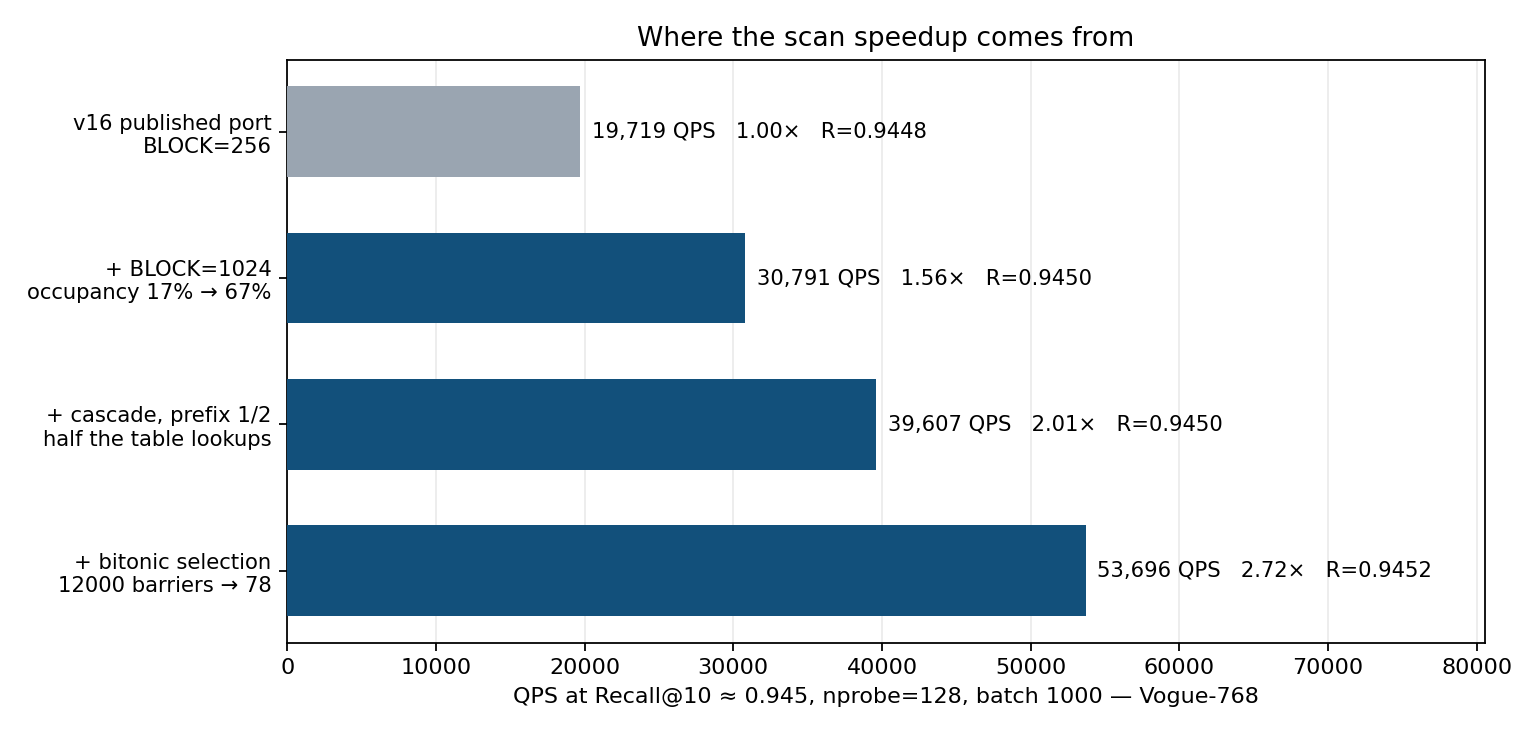
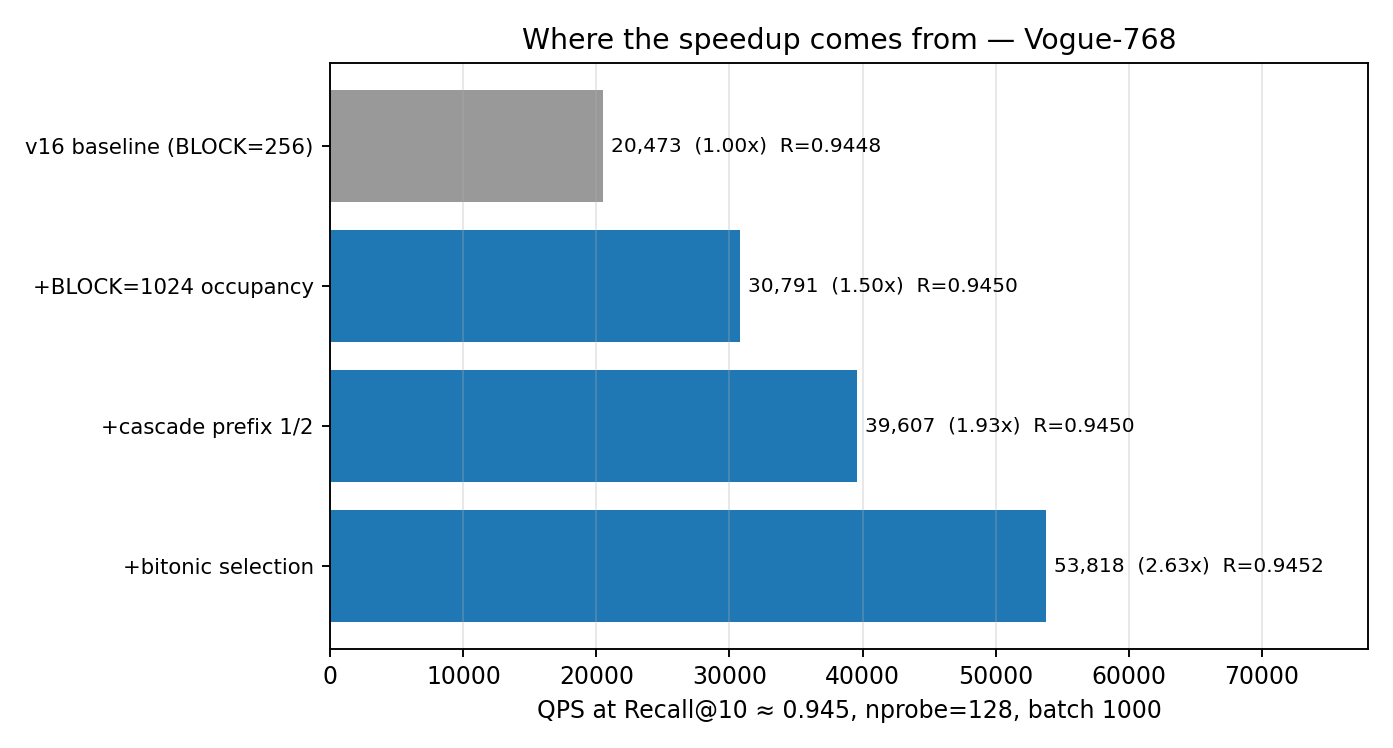
Redraw against the re-measured reference, and say what the ratio is made of
The build figure moves from 61-137x to 130-219x, not because anything got
faster but because the CPU column it is divided by is now a measurement that
reproduces. A bare ratio invites the obvious objection, so the title carries
the part of it that belongs to the machine rather than to the code: at 17.8M
vectors the two implementations reach 50% and 2.8% of their own arithmetic
bounds, and the GPU is doing 13.6x the arithmetic while it does it, at nlist
16384 against 256.

The legend no longer calls the host 208-core. It has 208 threads and reaches
2.41 TFLOP/s at 32 of them, falling to 1.27 at all of them, so the core count
describes the invoice rather than the machine.

The alpha caption said the published setting of 100 was past the knee. The
paper's setting is 4, swept over {2, 4, 8}; 100 was ours, and it was indeed
past the knee -- by enough to give away 13% of Vogue's throughput for nothing.
The caption now says what the knee is: recall saturates in the same place at
every block width and batch size measured, while the price of reaching it
ranges from 2.4% to 29.8% of throughput on this one card, so the CPU's 4 and
this port's 16-32 are the same quantity read off different machines.

The core figures pick up jhq-gpu-54's re-measured fairness rows; the one row
that still fails its spread bar keeps its CONTAMINATED mark and the loader
already drops it.

Changed region(s): [[0.0, 0.0312, 0.9878, 0.9688]]

diff --git a/scripts/plot_core3.py b/scripts/plot_core3.py
@@ -20,10 +20,14 @@ JHQ, CAG, INT8, IVF, JQ = "#12507B", "#2E8B57", "#8A9A2B", "#E07B39", "#9B7FC7"
 CARD_GIB = 31.36
 
 
+# the fairness re-runs name the sets by their short names
+SHORT = {"stella-trec24": "stella", "bge-m3": "bge"}
+
+
 def load(pats, ds):
     out = []
     for pat in pats:
-        for f in sorted(glob.glob(os.path.join(D, pat.format(d=ds)))):
+        for f in sorted(glob.glob(os.path.join(D, pat.format(d=ds, s=SHORT.get(ds, ds))))):
             with open(f) as fh:
                 body = [l for l in fh if not l.startswith("#")]
             for r in csv.DictReader(body):
@@ -118,13 +122,15 @@ def fig_scale():
             ("stella-trec24", "Stella-TREC24\n17.8M × 1024", 17776615)]
     METH = [("JHQ Br=4", JHQ, ["p0_{d}_jhq_Br4.csv"]),
             ("JHQ Br=8", "#3D7FA6", ["p0_{d}_jhq_Br8.csv"]),
-            ("cuVS IVF-PQ", IVF, ["p0_{d}_ivfpq.csv"]),
+            # IVF-PQ at 17.8M fails only at cuVS's default training fraction
+            # (half the set in fp32); at 0.05 it builds, so its bar is measured
+            ("cuVS IVF-PQ", IVF, ["p0_{d}_ivfpq.csv", "fair_{s}_ivfpq_f*.csv"]),
             ("CAGRA int8", INT8, ["p0_{d}_cagra_int8.csv"]),
             ("CAGRA fp32", CAG, ["p0_{d}_cagra.csv"])]
 
     def failure(ds, pats):
         for pat in pats:
-            for f in glob.glob(os.path.join(D, pat.format(d=ds))):
+            for f in glob.glob(os.path.join(D, pat.format(d=ds, s=SHORT.get(ds, ds)))):
                 with open(f) as fh:
                     body = [l for l in fh if not l.startswith("#")]
                 for r in csv.DictReader(body):

diff --git a/scripts/plot_build.py b/scripts/plot_build.py
@@ -44,7 +44,8 @@ def main():
     ax = fig.add_subplot(gs[0, 0]); bx = fig.add_subplot(gs[0, 1])
 
     y = np.arange(len(names))[::-1]; h = 0.26
-    ax.barh(y + h, cpu, h, color=SOFT, label="JHQ-CPU-IVF (reference, 208-core host)")
+    ax.barh(y + h, cpu, h, color=SOFT,
+            label="JHQ-CPU-IVF (reference, Xeon 8470Q, 2.41 TFLOP/s at its 32-thread peak)")
     ax.barh(y, first, h, color="#7FA6C2", label="first GPU port (streaming add)")
     ax.barh(y - h, now, h, color=ACC, label="now")
     for yy, v in zip(y + h, cpu):
@@ -66,8 +67,13 @@ def main():
               frameon=False)
     r_cpu = [c / n for c, n in zip(cpu, now)]
     r_first = [f / n for f, n in zip(first, now)]
+    # The ratio alone invites the obvious objection, so the title carries the
+    # part of it that is the machine: at 17.8M the two implementations reach
+    # 50% and 2.8% of their own arithmetic bounds, and the GPU is doing 13.6x
+    # the arithmetic at nlist 16384 against 256. See gpu_operating_point/roofline.csv.
     ax.set_title(f"Build time: {min(r_cpu):.0f}x to {max(r_cpu):.0f}x below the CPU "
-                 f"reference, {min(r_first):.0f}x to {max(r_first):.0f}x below the first port",
+                 f"reference — of which about 10x is the arithmetic bound and the "
+                 f"rest is distance from it",
                  fontsize=11.5, loc="left")
 
     # Stella add, pipelined: what the seconds are, and what runs under them.

diff --git a/scripts/build_report.py b/scripts/build_report.py
@@ -228,8 +228,14 @@ def main():
                       "primary code, and costs a fraction of the throughput."),
         alpha=img_tag("fig5_alpha.png",
                       "Recall stops improving at about alpha=32 while the cost of refining "
-                      "alpha*k candidates keeps climbing. The published setting of 100 is "
-                      "past the knee."),
+                      "alpha*k candidates keeps climbing. The paper sweeps alpha over {2, 4, "
+                      "8} and settles on 4, which is the right answer for a CPU, where "
+                      "refinement is a serial loop whose cost is linear in alpha; here it is "
+                      "a parallel gather, and the knee moves to 16-32. Where recall saturates "
+                      "is a property of the quantiser and is the same at every block width "
+                      "and batch size measured; what it costs to get there is the ratio of "
+                      "refinement work to scan work, which ranges from 2.4% to 29.8% of "
+                      "throughput for the same alpha on this one card."),
         build=img_tag("fig4_build.png",
                       "Index build, train plus add, on the six datasets: the CPU reference, "
                       "the first GPU port with the streaming add, and the current build. On "
